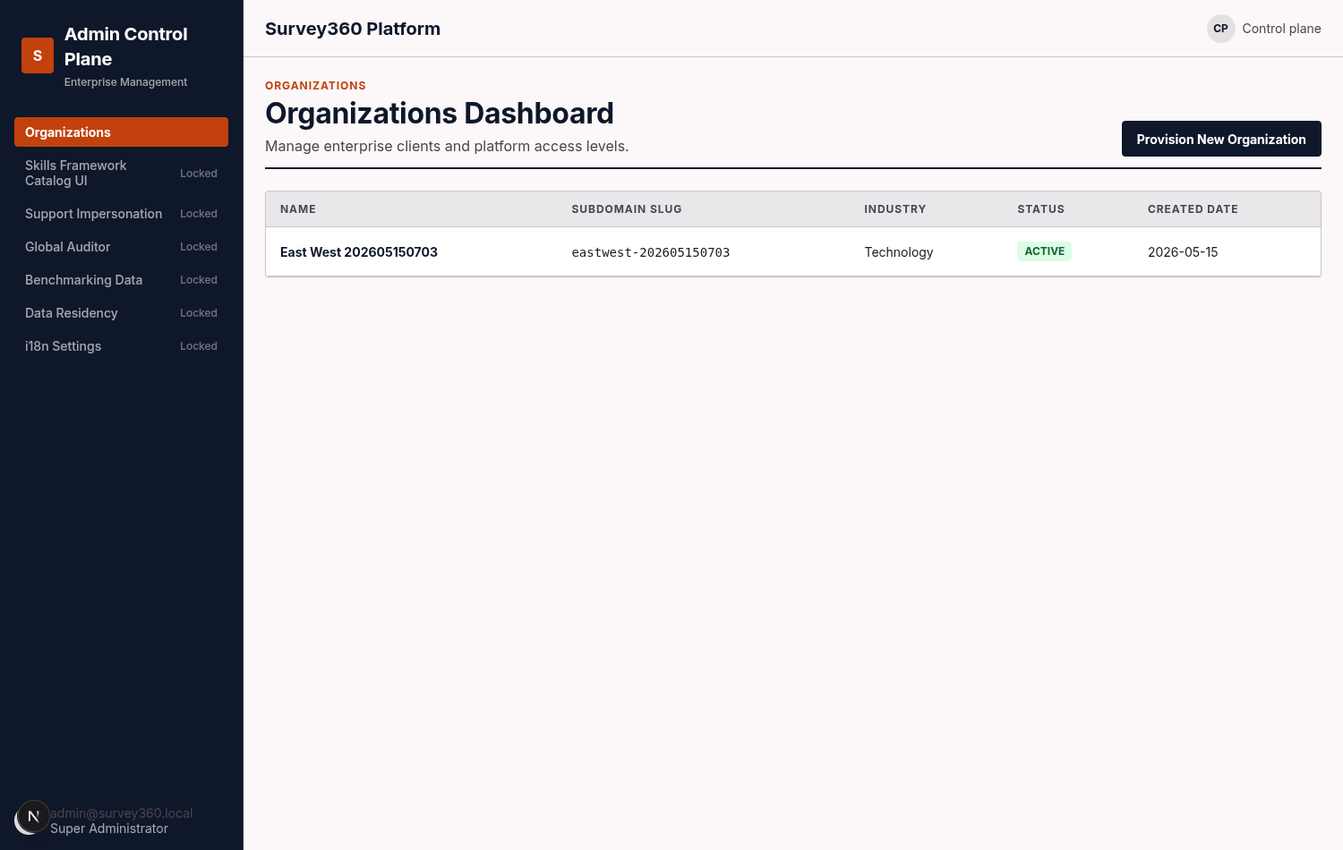
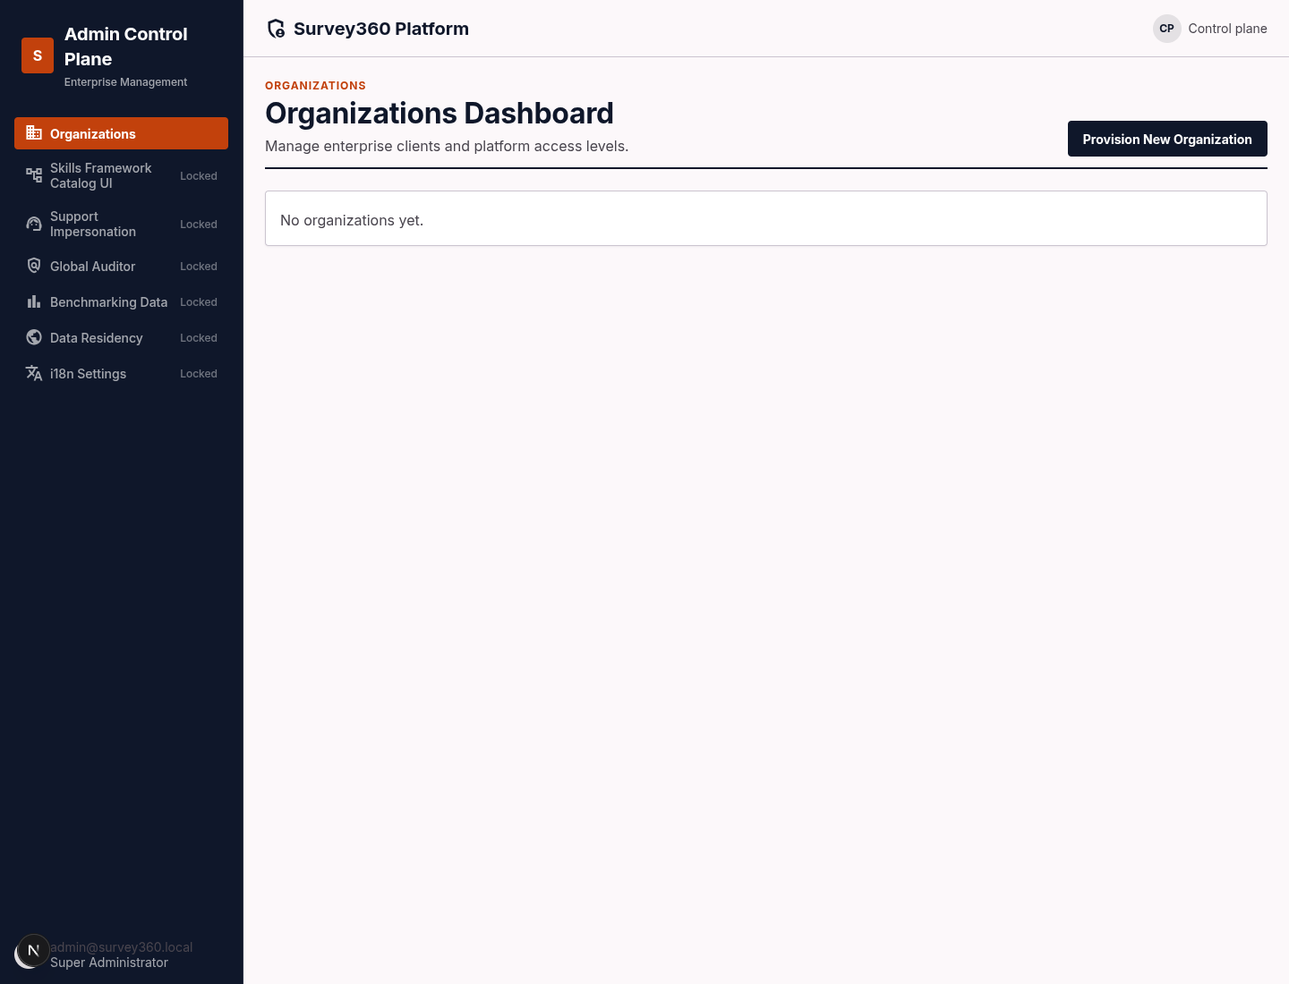
update docs

Changed region(s): [[0.0, 0.0, 1.0, 1.0], [0.75, 0.2442, 0.8125, 0.3358], [0.9062, 0.0, 1.0, 0.0611]]

diff --git a/docs/walkthroughs/index.md b/docs/walkthroughs/index.md
@@ -1,197 +1,169 @@
 ---
 sidebar_position: 1
-title: Walkthrough
-description: A complete business walkthrough for running a leadership 360 review in Survey360.
+title: Senior Management SSF Walkthrough
+description: A complete Senior Management-only walkthrough for running a Singapore Skills Framework leadership 360 review in Survey360.
 ---
 
-# Walkthrough
+# Senior Management SSF Walkthrough
 
-This walkthrough follows one Senior Management-led review from the first sign-in to the finished leadership report. It uses the East West presentation review, where Senior Management monitors a realistic in-progress cycle with many reviewed employees, active respondent links, completed feedback, individual reports, and governed raw response review.
+This walkthrough follows a complete cold-start Survey360 lifecycle. A platform administrator provisions East West, activates the workspace, and then Senior Management runs the full tenant process without switching to an HR account. The review uses Singapore Skills Framework Critical Core Skills, adds one cycle-level custom competency, generates and edits AI questionnaire wording, assigns rater links, collects three peer responses, generates the report, and opens governed raw-response review.
 
-The screenshots show what the product looks like at each stage. You do not need to know how the system works behind the scenes; follow the screens, decisions, and outcomes. This walkthrough covers the full Senior Management flow: organization access, employee setup, framework and custom competency selection, AI-assisted questionnaire review, response visibility governance, rater links, respondent acknowledgement, Cycle Operations, individual reports, and governed raw response review.
+The screenshots come from a fresh local run with one organization, one Senior Management user, five imported employees, one assessed leader, three peer raters, and one completed report. They show the product surface a customer would use rather than backend setup details.
 
-## 1. Start in Survey360
+## 1. Start from the platform control plane
 
-Your organization is prepared before the review begins. After activation, you sign in with your work email and the email code sent to your inbox.
-
-The first sign-in screen is used before the organization workspace is activated. It shows the secure start of the process: an authorized administrator signs in and continues to organization setup.
+The platform sign-in screen is the controlled entry point for organization setup. In local development, the seeded platform admin signs in before creating any tenant data.
 
 ![Platform sign-in screen](/img/walkthroughs/sm-only-ssf/01-platform-sign-in.png)
 
-The Organizations dashboard shows the organizations that have been prepared in Survey360. In this walkthrough, it establishes that East West is created before Senior Management begins the review.
+A clean reset starts with no organizations. The Organizations dashboard confirms that the workspace has not been provisioned yet.
 
 ![Organizations dashboard](/img/walkthroughs/sm-only-ssf/02-platform-organizations-dashboard.png)
 
-The organization setup form captures the organization name and the Senior Management email that will receive access. It also makes clear that the first workspace user is invited through a controlled setup step.
+The provisioning form captures the organization name, subdomain, industry, and first Senior Management email. This is the handoff point from platform administration to tenant ownership.
 
 ![Create organization form](/img/walkthroughs/sm-only-ssf/03-platform-provision-form.png)
 
-After the organization is created, Survey360 shows the new organization record. This confirms that the setup details were saved and that the organization is ready for activation.
+After creation, the organization record shows the lifecycle state and confirms that an activation link exists. The activation email is sent to the Senior Management address through MailHog in local development.
 
 ![Created organization record](/img/walkthroughs/sm-only-ssf/04-platform-organization-created.png)
 
-The activation confirmation shows that the organization workspace has been prepared. From this point, the Senior Management user can sign in to that workspace.
+Opening the activation link prepares the tenant workspace and activates the Senior Management user. From here, the tenant signs in with an email code rather than a password.
 
 ![Organization activation confirmation](/img/walkthroughs/sm-only-ssf/05-tenant-activation-success.png)
 
-The Senior Management sign-in screen asks for the email code sent during activation. The code is single-use and expires shortly, so keep the sign-in page open while you retrieve it.
+The tenant sign-in screen sends and verifies the one-time email code. This keeps the tenant workspace separate from the platform password login.
 
 ![Senior Management email code screen](/img/walkthroughs/sm-only-ssf/06-senior-management-sign-in-code.png)
 
-When sign-in is complete, Survey360 opens the Survey Cycles workspace. The empty state is intentional: it tells Senior Management that no reviews exist yet and points them toward creating the first leadership review.
+After sign-in, Senior Management lands on Survey Cycles. The empty portfolio shows that this is a fresh workspace and no review has been created yet.
 
 ![Senior Management workspace overview](/img/walkthroughs/sm-only-ssf/07-survey-cycles-empty.png)
 
-You are ready to move on once you can see the empty Survey Cycles workspace and the navigation sidebar.
+## 2. Import the employee roster
 
-## 2. Add employees
+Before building the review, Senior Management imports the participant roster. The embedded CSV includes Maria Santos as the assessed leader and Rafael Cruz, Anna Mercado, and Paolo Reyes as peer raters. Camille Dizon is also imported so the directory looks like a reusable tenant roster rather than a one-off form.
 
-Before creating a review, you need the people who will participate. Add the reviewed leaders and the raters who will be invited to give feedback. In the East West presentation data, the roster includes multiple reviewed employees and raters so Senior Management can see portfolio-level progress instead of a toy one-person cycle.
-
-The employee import preview lets you paste or type names and email addresses, then check the parsed rows before saving. Survey360 gives you this review step before invitations are created, which is where you catch spelling mistakes or incorrect emails.
+The preview step validates all rows before anything is committed. This is where spelling, email, department, job title, and seniority issues can be caught safely.
 
 ![Employee import preview](/img/walkthroughs/sm-only-ssf/08-employee-import-preview.png)
 
-The Employee Directory confirms that the participant list has been saved. The reviewed leader and raters now appear as reusable people in the workspace, not as one-off entries tied only to this review.
+After commit, the Employee Directory shows the imported employees with their departments and seniority. Raters become respondents only after personal survey links are minted later in the cycle.
 
 ![Imported employee directory](/img/walkthroughs/sm-only-ssf/09-employee-directory-imported.png)
 
-You are ready to move on when the Employee Directory shows the reviewed employees and raters with correct email addresses.
+## 3. Create the SSF leadership review
 
-## 3. Create the leadership review
+Senior Management creates `East West Leadership 360` with the goal `Assess leadership behaviours for branch managers and create practical development feedback.` The review uses Critical Core Skills from the Singapore Skills Framework, with `Decision Making` and `Developing People` selected as the standard competencies.
 
-Now you create the review itself in Survey Cycles. Give it a clear name that describes the review, such as the leader's name and the review period. Describe the purpose in plain language so other stakeholders understand why the review is being run.
-
-The most important decision here is choosing the leadership skills to assess. Survey360 offers skill frameworks you can use as a starting point. This example uses Critical Core Skills, which are broad workplace leadership skills such as decision-making and developing people.
-
-You can also add a custom competency when the review needs to measure something specific to your organization, team, or current business priority. In this walkthrough, East West adds Digital Transformation Leadership because Maria's review should look beyond general leadership behavior and capture how she leads people through technology-driven change. A custom competency should be written as a clear capability, not a one-off task. Good examples are "Digital Transformation Leadership," "Client Recovery Leadership," or "Cross-functional Change Management." Avoid wording that is too narrow, such as "Finish the CRM rollout," because raters need to score a repeatable leadership behavior.
-
-Custom competencies sit alongside the selected framework skills for this review. Survey360 uses them when drafting questions, raters answer those questions in the same survey, and the final report can show how the reviewed leader performed against both the standard framework and the organization-specific focus area.
-
-The create review form brings those choices together: review name, goal, selected framework skills, and the custom competency. This places the custom competency inside the survey design before any AI questions are drafted.
+A cycle-level custom competency, `Digital Transformation Leadership`, is added to reflect East West's own leadership priority: leading teams through digital change while preserving customer trust and operational discipline. Custom competencies sit beside the SSF competencies for this cycle, are included in AI question drafting, appear in the respondent form, and are summarized in the report.
 
 ![Create leadership review form](/img/walkthroughs/sm-only-ssf/10-create-ssf-survey-form.png)
 
-After the review is created, the workspace shows the selected skills and current status. Digital Transformation Leadership has been carried into the review workspace alongside the standard framework skills, and the review is still in draft while the questionnaire is prepared.
+The cycle workspace confirms the draft status, job family, seniority, framework, selected SSF skills, and the custom competency. The cycle is ready for questionnaire generation.
 
 ![Created survey workspace](/img/walkthroughs/sm-only-ssf/11-cycle-workspace-created.png)
 
-You are ready to move on when the review workspace shows the correct skills and a draft status.
+## 4. Generate, edit, and accept the AI proposal
 
-## 4. Review and approve questions
-
-Survey360 can draft questions based on the goal and selected skills. You stay in control of the final wording. This saves time while ensuring the questions fit your organization's language and culture.
-
-The AI proposal screen presents draft questions grouped around the selected competencies. The screen makes clear that the system is proposing material for review, not silently publishing a questionnaire.
+Senior Management requests AI generation from the cycle workspace. The proposal is generated as a human-review artifact; AI does not publish questions directly to the active survey.
 
 ![AI proposal ready for review](/img/walkthroughs/sm-only-ssf/12-ai-proposal-ready.png)
 
-The wording assistant helps refine a question without changing the competency being assessed. Use it when a question is directionally right but needs plainer language, more behavior-specific wording, or a better fit for the organization.
+In the review screen, Senior Management edits a question and asks the wording assistant to make it more behavior-specific while preserving the competency. The alternative is only a suggestion until the reviewer applies it.
 
 ![AI wording assistant](/img/walkthroughs/sm-only-ssf/13-ai-proposal-review-alternative.png)
 
-The draft questionnaire version shows the reviewed set of questions before approval. This is the checkpoint where Senior Management can inspect the full questionnaire as a versioned draft before it becomes active.
+After applying the wording and accepting the proposal, Survey360 creates Version 1 as a draft questionnaire. The draft is still internal; raters cannot answer until it is approved.
 
 ![Draft questionnaire version](/img/walkthroughs/sm-only-ssf/14-questionnaire-draft-version.png)
 
-Approve the questionnaire only when the questions are ready for raters. Once approved, the review becomes active and can receive rater invitations. You cannot edit questions after approval without creating a new version, so take time to review carefully.
+## 5. Approve the questionnaire and set response visibility
+
+Senior Management approves Version 1. Approval moves the questionnaire to `approved` and the cycle to `active`, which unlocks rater assignment and report readiness tracking.
 
 ![Approved active cycle](/img/walkthroughs/sm-only-ssf/15-cycle-approved-active.png)
 
-The approved cycle screen shows that the review has moved from preparation into execution. At this point, the questionnaire is locked for the active version and the team can begin assigning raters.
+Before respondent links are minted, Senior Management decides the response visibility policy. In this run, anonymous individual response review is enabled: Senior Management may inspect individual rows, but rater names stay hidden. Once links are created, the policy locks so respondents receive a consistent visibility promise.
 
-Before invitations are created, Senior Management also decides the response visibility policy for this review. There are three choices: do not allow individual response review, allow anonymous individual response review, or allow identified individual response review. Anonymous review lets Senior Management inspect individual answers without rater names. Identified review shows rater names and should be used only when that visibility has been explicitly approved.
+Cycle Operations shows the active cycle before responses: assigned, invited, and completed counts are all zero; completion is 0%; the raw-response policy is still unlocked until links are minted; and the Senior Management controls are visible.
 
-This decision must be made before personal survey links are minted. Once links exist, Survey360 locks the policy so the visibility promise cannot change after raters have been invited.
+![Completion before responses](/img/walkthroughs/sm-only-ssf/17-completion-before-responses.png)
 
-The policy also changes what raters see later. If individual response review is enabled, each rater must acknowledge the response visibility notice before submitting feedback. If the policy stays disabled, the survey remains a standard aggregate-reporting flow.
+## 6. Assign peer raters and send personal links
 
-You are ready to move on when the review status shows as active and approved, and the response visibility policy reflects the intended level of review for this cycle.
+With the questionnaire active, Senior Management creates three peer assignments for Maria Santos:
 
-## 5. Invite raters
+- Rafael Cruz rates Maria Santos.
+- Anna Mercado rates Maria Santos.
+- Paolo Reyes rates Maria Santos.
 
-With the review active, you can now assign raters. Select each reviewed leader, then choose raters from the Employee Directory. Survey360 creates a personal survey link for each rater.
-
-The rater assignment view shows who has been invited and whether each personal link is active. Senior Management can track invitations here without exposing anyone's answers.
+Each assignment mints a personal respondent link and sends a feedback request email. The links use the `/respondent?tenantId=...#token` shape, so the raw token stays in the URL fragment rather than the query string.
 
 ![Assigned peer raters](/img/walkthroughs/sm-only-ssf/16-rater-links-assigned.png)
 
-You are ready to move on when all raters have been assigned and their personal links are active. At this point, raters can begin submitting feedback.
+## 7. Raters submit feedback
 
-## 6. Raters submit feedback
+Each rater opens a personal link and completes the approved questionnaire. The respondent form includes the SSF questions and the custom `Digital Transformation Leadership` questions in the same survey.
 
-Each rater receives their personal link by email. When they open it, they see the survey questions and can rate the reviewed leader on each skill. The survey is designed to be completed in one sitting.
-
-If individual response review is enabled, the rater also sees a response visibility disclosure before submitting. The disclosure explains whether Senior Management may review individual answers with or without rater identity, and the rater must acknowledge that policy before submitting feedback.
-
-The respondent form is the rater's view of the questionnaire. It keeps the survey focused: the rater answers the approved questions, including any custom competency questions, without seeing internal setup or report controls.
+Because anonymous raw-response review was enabled before links were sent, the respondent also sees a response visibility notice and must acknowledge the policy before submitting.
 
 ![Respondent survey form](/img/walkthroughs/sm-only-ssf/18-respondent-rating-form.png)
 
-The submission confirmation tells the rater their feedback has been received. This closes the respondent's task and sets the expectation that the link cannot be used again.
+After submission, the respondent receives a confirmation. The link cannot be used for another response.
 
 ![Respondent submission confirmation](/img/walkthroughs/sm-only-ssf/19-respondent-submitted.png)
 
-If someone tries to use the link again, they see a message that the survey has already been completed. This reinforces the single-use nature of respondent links and protects the review from duplicate submissions.
+Opening a used link from a fresh page shows the invalid-or-used message. This confirms the single-use respondent token behavior.
 
 ![Used survey invitation message](/img/walkthroughs/sm-only-ssf/20-respondent-link-used.png)
 
-You are ready to move on when all raters have submitted their feedback. Check the completion view in Cycle Operations to confirm.
+## 8. Track completion and generate the report
 
-## 7. Track completion and generate the report
-
-Return to Cycle Operations to check participation. The completion view shows which raters have finished and which are still pending. This helps you decide whether to follow up with pending raters before generating the report.
-
-Cycle Operations also summarizes readiness: completion progress, the response funnel, lifecycle states, the response visibility policy, and the actions available to Senior Management. It is an operations view, not an answer browser, so it tracks progress without exposing survey content. When governed individual review is enabled, Cycle Operations can also provide the Senior Management-only entry point for reviewing raw responses.
-
-When enough responses are complete and the anonymity threshold is met, report generation becomes available. The anonymity threshold means enough raters have responded so that no individual answer can be traced back to a specific person. This protects raters and encourages honest feedback.
+After all three peer raters submit feedback, Cycle Operations shows `Assigned 3`, `Invited 3`, `Completed 3`, and `Completion 100%`. The response visibility policy is locked, and the anonymity threshold of 3 is satisfied for Maria Santos' peer report.
 
 ![Completion after all responses](/img/walkthroughs/sm-only-ssf/21-completion-after-responses.png)
 
-The participation view shows assigned, invited, completed, active-link, and report-readiness counts together. It is the evidence Senior Management needs before moving from collection to reporting.
+The cycle workspace now marks the report path as ready. Senior Management can generate the report from the cycle hero or from the Individual Reports section.
 
-Generate the leadership report from the review workspace. Survey360 compiles the feedback into a structured summary.
+![Report ready action](/img/walkthroughs/sm-only-ssf/22-report-ready-action.png)
 
-The report action screen makes the handoff clear: the survey is complete, the anonymity rule is satisfied, and Senior Management can now create the report.
-
-The individual reports summarize employee feedback, including skill scores and development suggestions. Review the results to identify strengths and areas for growth. The reports are designed for discussion in coaching or development planning conversations.
+The generated report summarizes the completed feedback for Maria Santos. It includes response count, average rating, competency breakdowns for both SSF and custom competencies, skill scores, cluster scores, and AI development suggestions.
 
 ![Generated leadership report](/img/walkthroughs/sm-only-ssf/23-report-generated.png)
 
-The generated report includes both standard framework skills and any custom competency coverage that was included in the review. In the East West presentation cycle, the custom competency appears as part of the leadership story, not as a separate side note.
+## 9. Review governed raw responses
 
-When individual response review was enabled before invitations, Senior Management can open `View raw responses` from an individual report. This governed review page is access-logged every time it is opened. It shows the policy version, whether rater identity is hidden or visible, total row counts, rating row counts, open comment counts, a competency comparison radar, an exact-score matrix, rater group summaries, and an audited table of individual entries.
+Because anonymous individual response review was enabled before links were minted, Senior Management can open governed raw-response review. Every successful view creates an access log, shown as the `LOG_ID` chip on the page. The policy banner confirms that this is Senior Management-only reviewer-level information and that rater identity is hidden.
 
 ![Governed raw response review](/img/walkthroughs/sm-only-ssf/24-governed-raw-response-review.png)
 
-The top of the governed review page confirms that the page is Senior Management-only. The `LOG_ID` chip is the access log for that specific view. The identity pill tells you whether rater identity is hidden or visible for the cycle policy.
+The raw-response page includes a competency radar, exact-score matrix, and rater group summary so Senior Management can inspect the distribution without exporting raw data.
 
 ![Governed raw response radar and score matrix](/img/walkthroughs/sm-only-ssf/25-governed-raw-response-radar.png)
 
-The radar and exact-score matrix help Senior Management compare competency scores across rater groups without exporting raw data. Highlighted cells call attention to larger differences between rater perspectives.
+The audit table shows every individual response row with the rater anonymized, the rater type, competency, question, answer, and completion timestamp. This makes raw review inspectable while preserving the cycle's anonymous identity policy.
 
 ![Governed raw response layout](/img/walkthroughs/sm-only-ssf/26-governed-raw-response-layout.png)
-
-Use this page carefully. It is for Senior Management review only, and it is not a raw export. If the policy is anonymous, rater names remain hidden even though the individual answers can be inspected. If the policy is identified, that visibility had to be decided before links were sent and acknowledged by respondents.
-
-You are ready to close the review when the report has been generated and reviewed by Senior Management, and any governed individual response review has been completed with the expected access logging.
 
 ## Closeout checklist
 
 Use this checklist before closing the review:
 
-- The organization is active and Senior Management can sign in.
-- The employee list includes one reviewed leader and the selected raters.
-- The review has a clear goal and selected leadership skills.
-- Any cycle-level custom competency appears alongside the selected framework skills.
-- The AI proposal was reviewed, edited where needed, and approved into a questionnaire version.
-- The questionnaire has been reviewed and approved.
-- The response visibility policy was decided before personal links were created.
-- Personal survey links have been sent to raters.
-- Raters saw and acknowledged the visibility notice when individual response review was enabled.
-- Cycle Operations shows completion progress, response funnel, lifecycle readiness, response visibility, and available Senior Management controls.
-- Raters have submitted enough feedback for reporting.
-- The individual report has been generated and reviewed by Senior Management.
-- If individual response review was enabled, `View raw responses` shows access logging, the correct identity visibility, radar, score matrix, summaries, and audit rows.
+- The organization was provisioned and activated from a clean platform state.
+- Senior Management signed in through the tenant email-code flow.
+- No HR invitation, HR sign-in, or tenant custom framework switch was used.
+- The employee roster includes Maria Santos plus the selected peer raters.
+- The cycle uses Critical Core Skills (SSF) and includes a cycle-level custom competency.
+- AI generation was requested by a human, reviewed, edited, assisted with an alternative wording, and accepted.
+- Version 1 was approved before links were sent.
+- Anonymous raw-response review was decided before respondent links were minted and then locked.
+- Three personal peer links were sent, with raw tokens kept in URL fragments.
+- Each respondent completed the survey and acknowledged the visibility notice.
+- Reusing a respondent link failed.
+- Cycle Operations moved from 0% to 100% completion.
+- The report was generated only after three completed peer responses satisfied the anonymity threshold.
+- The final report includes standard SSF skills, the custom competency, scores, and AI development suggestions.
+- Governed raw-response review is Senior Management-only, access-logged, and anonymized under the selected policy.
 
-The walkthrough is complete when Senior Management can see the finished leadership report.
+The walkthrough is complete when Senior Management can see the generated report and, when enabled, the governed raw-response review page with the expected access log and identity policy.
